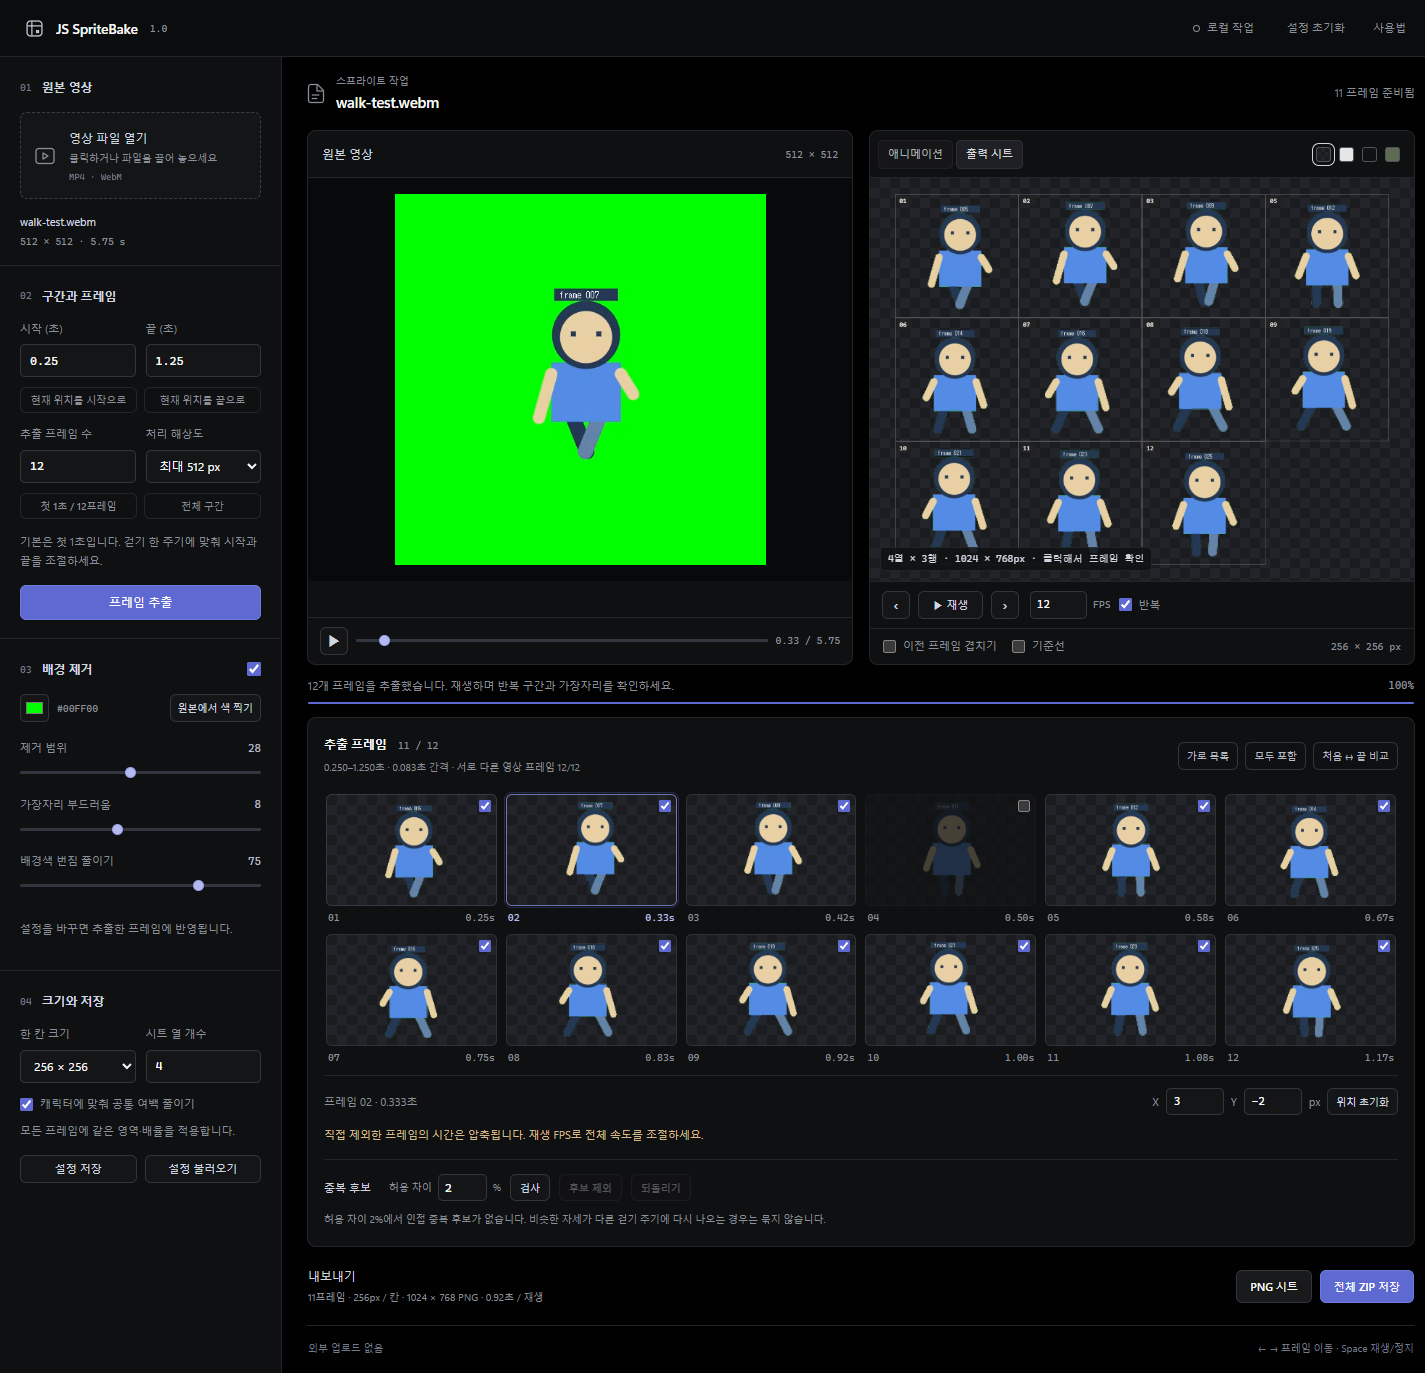
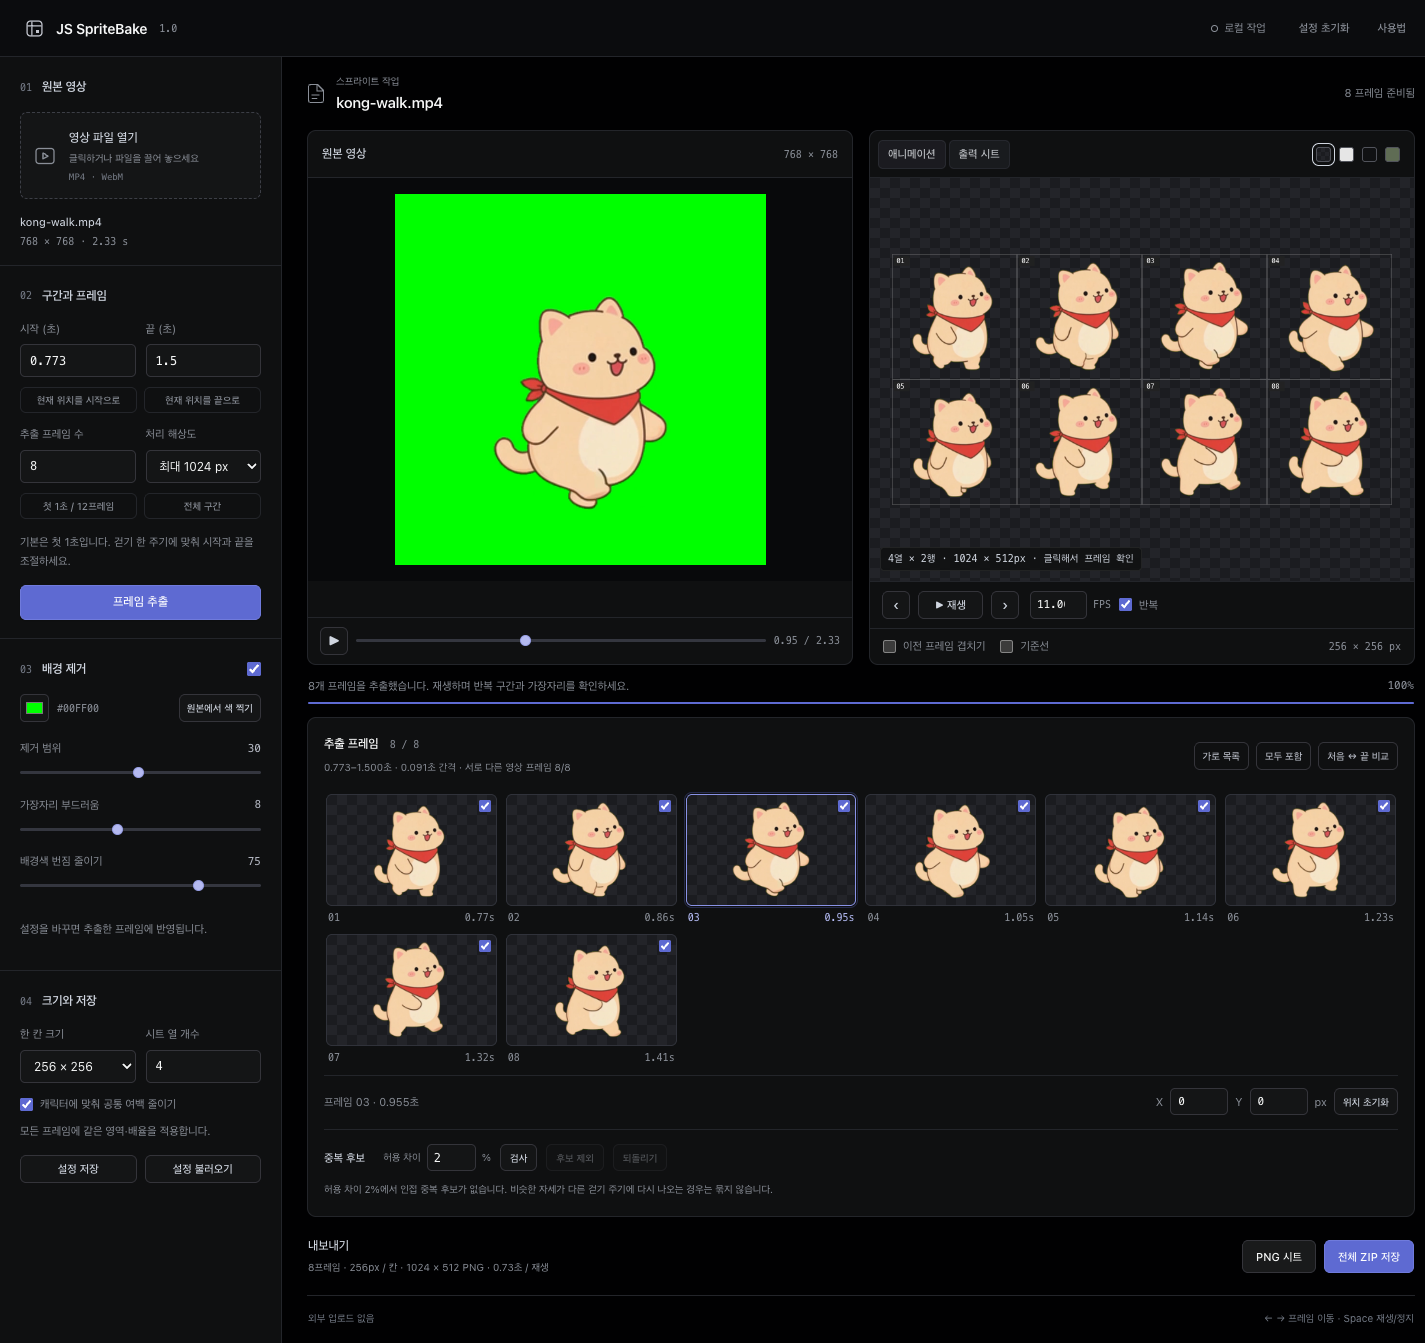
Use kong walk clip for README screenshots
- Regenerate preview.png / preview-sheet.png from a green-screen kong walk
- Add tests/capture-previews.mjs to refresh screenshots from any clip
- Browser check no longer writes README screenshots
- Re-embed the sheet screenshot in all three READMEs

diff --git a/README.md b/README.md
@@ -67,6 +67,8 @@ Work is not saved automatically. To continue later, use **설정 저장** (Save 
 
 ## Output files
 
+![Output sheet view](preview-sheet.png)
+
 | File | Contents |
 | --- | --- |
 | `*-sheet.png` | Transparent sprite sheet (grid). |
@@ -163,7 +165,7 @@ python3 -m unittest discover -s tests -p "test_*.py"       # server boundaries
 node tests/browser-check.mjs http://127.0.0.1:8765         # full editor + CLI check, server running
 ```
 
-The browser check generates its own test video and writes temporary files to the ignored `.qa/` folder. Set `UPDATE_PREVIEWS=1` to refresh the README screenshots, and `SPRITE_TEST_BROWSER` for a nonstandard Chrome path. See [CONTRIBUTING.md](CONTRIBUTING.md).
+The browser check generates its own test video and writes temporary files to the ignored `.qa/` folder. Set `SPRITE_TEST_BROWSER` for a nonstandard Chrome path. README screenshots come from a real clip: `node tests/capture-previews.mjs http://127.0.0.1:8765 <video> [start] [end] [frames]`. See [CONTRIBUTING.md](CONTRIBUTING.md).
 
 ## License and credits
 

diff --git a/CONTRIBUTING.md b/CONTRIBUTING.md
@@ -19,7 +19,7 @@ On Windows use `py -3` or `python` instead of `python3`. Optional browser checks
 node tests/browser-check.mjs http://127.0.0.1:8765
 ```
 
-The browser script creates its own geometric walking video using canvas and MediaRecorder. A nonstandard Chrome path can be supplied through `SPRITE_TEST_BROWSER`. Temporary profiles and downloads are stored under `.qa/`, which must remain untracked. The check also runs `cli.mjs` once. README screenshots are only rewritten with `UPDATE_PREVIEWS=1`.
+The browser script creates its own geometric walking video using canvas and MediaRecorder. A nonstandard Chrome path can be supplied through `SPRITE_TEST_BROWSER`. Temporary profiles and downloads are stored under `.qa/`, which must remain untracked. The check also runs `cli.mjs` once. It never touches the README screenshots; refresh those from a real clip with `node tests/capture-previews.mjs http://127.0.0.1:8765 <video> [start] [end] [frames]`.
 
 ## Useful reports
 

diff --git a/CHANGELOG.md b/CHANGELOG.md
@@ -6,7 +6,7 @@
 - Add a Claude Code plugin with a `spritebake` skill that drives the CLI.
 - Lower the minimum Python version to 3.9 so macOS's bundled `python3` works; `start.command` prefers a newer Python when installed.
 - Add macOS system fonts and a favicon. `npm start` works on macOS.
-- Browser checks no longer overwrite README screenshots unless `UPDATE_PREVIEWS=1`.
+- README screenshots now show a kong-survivors character walk; `tests/capture-previews.mjs` regenerates them, and browser checks no longer overwrite them.
 - Rewrite the English, Korean and Japanese READMEs around quick start, CLI and skill usage.
 
 ## 1.0.0
